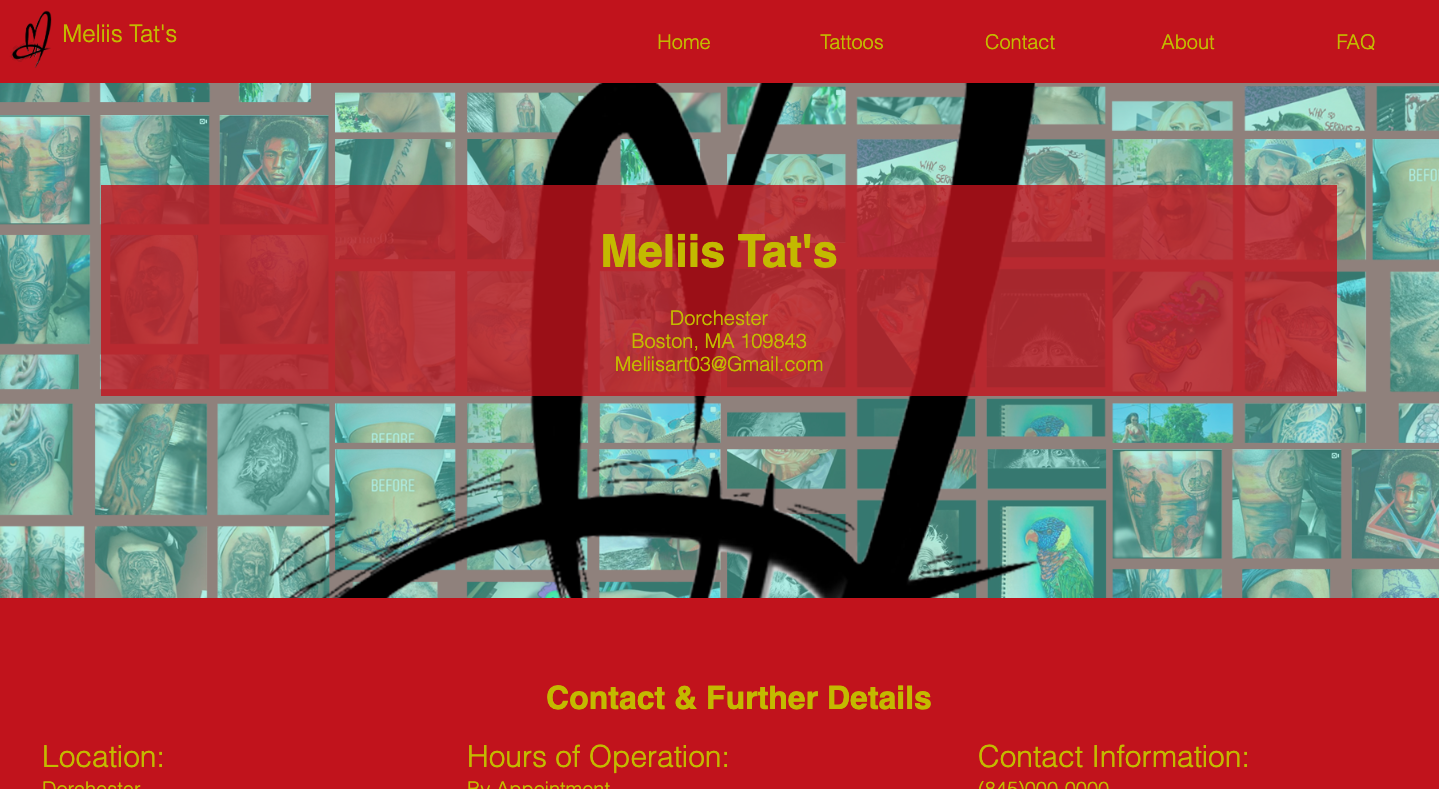
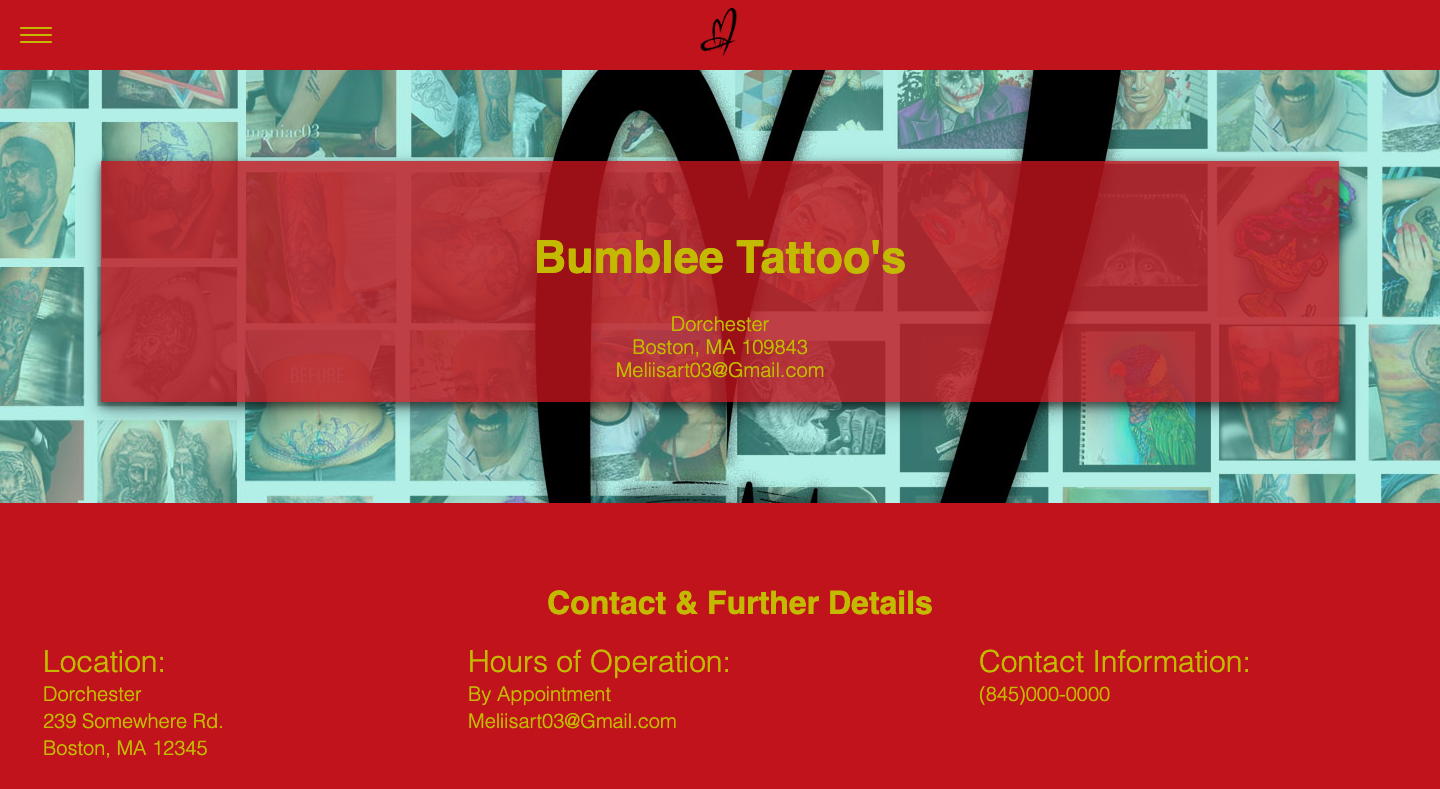
updates

diff --git a/index.html b/index.html
@@ -25,10 +25,10 @@
 		<div class="portfolio">
 			<div class="portfolio-item medium ufr"><a href="https://helvin159.github.io/UFR/" target="_blank">UFR</a></div>
 		<div class="portfolio-item large meliitats">
-			<a href="https://helvin159.github.io/MelliiTats/" target="_blank">Meliis Tat's</a>
+			<a href="https://helvin159.github.io/MelliiTats/" target="_blank">Bumblee Tattoo's</a>
 			</div>
 			<div class="portfolio-item medium three"><a href="https://helvin159.github.io/Template-2/" target="_blank">Template 2</a></div>
-		<div class="portfolio-item small four">four</div>
+			<div class="portfolio-item small four">four</div>
 			<div class="portfolio-item tall perfecttax">
 				<a href="https://helvin159.github.io/Perfect-Tax/" target="_blank">Perfect Tax</a>
 			</div>
